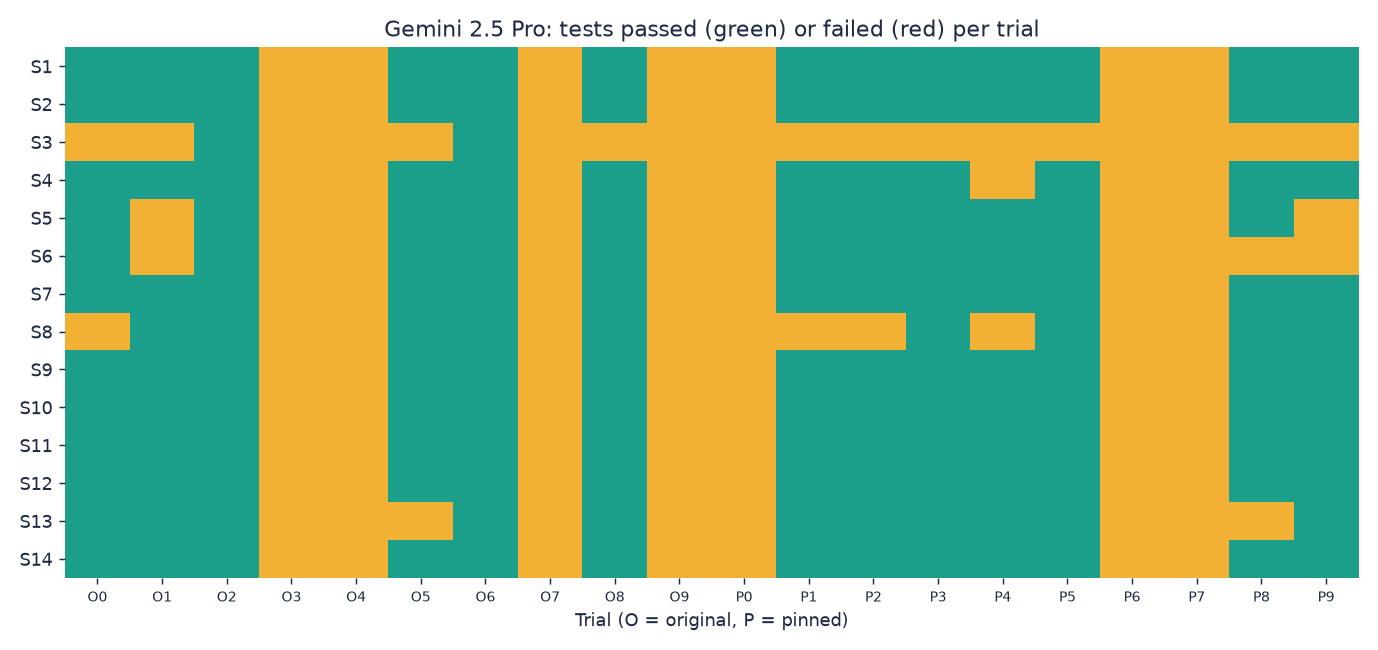
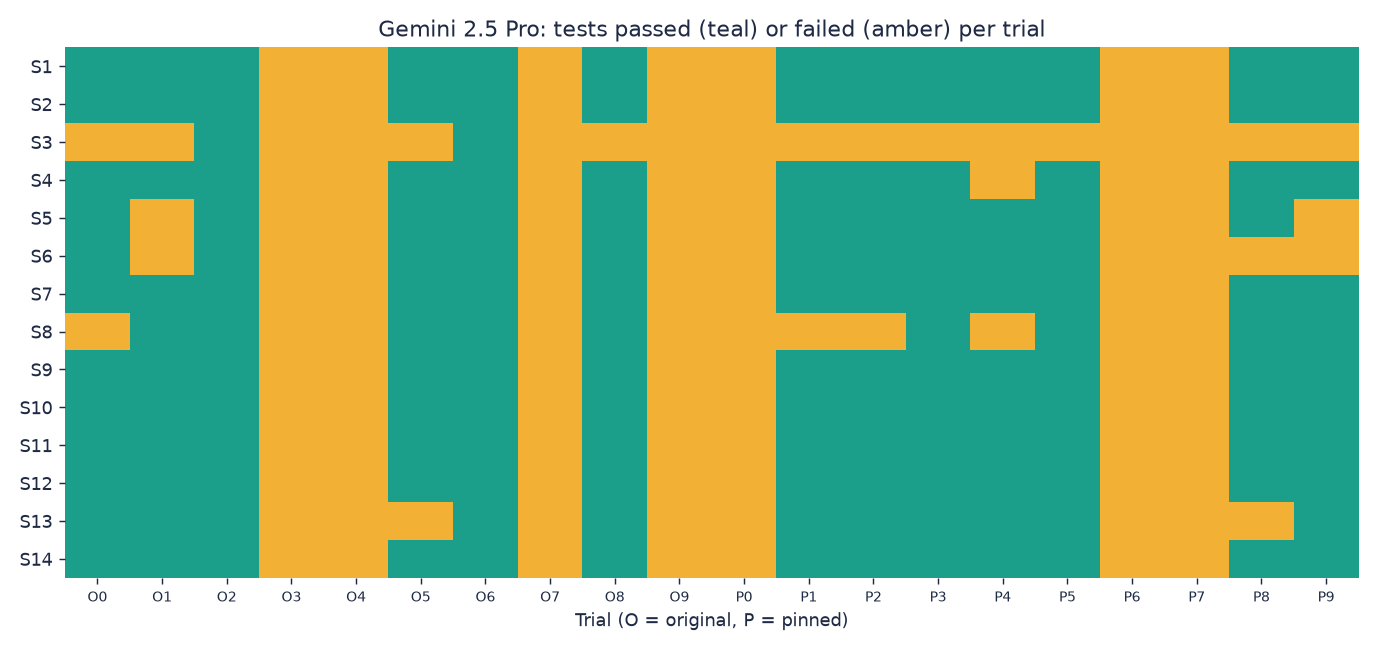
Correct colour names in the test matrix title and explain how to read it

Changed region(s): [[0.2808, 0.0308, 0.7801, 0.0615]]

diff --git a/make_figures.py b/make_figures.py
@@ -113,7 +113,7 @@ if len(ALL):
     ax.imshow(M, cmap=matplotlib.colors.ListedColormap([AMBER, TEAL]), aspect="auto", vmin=0, vmax=1)
     ax.set_yticks(range(14)); ax.set_yticklabels(ids); ax.set_xticks(range(len(Rs)))
     ax.set_xticklabels([f"{r.cond[0].upper()}{r.trial}" for r in Rs.itertuples()], fontsize=8)
-    ax.set_xlabel("Trial (O = original, P = pinned)"); ax.set_title("Gemini 2.5 Pro: tests passed (green) or failed (red) per trial")
+    ax.set_xlabel("Trial (O = original, P = pinned)"); ax.set_title("Gemini 2.5 Pro: tests passed (teal) or failed (amber) per trial")
     ax.spines[:].set_visible(False); fig.tight_layout(); fig.savefig("docs/test_matrix.png"); plt.close(fig)
 
     # 6c/6d: comparison across models, original prompt only

diff --git a/README.md b/README.md
@@ -227,7 +227,7 @@ Per-trial figures for `gemini-2.5-pro` under both prompts:
 
 The difference between the prompts is small compared with the variation between trials. It comes mainly from how many trials produced working code. In both prompts, every valid trial passed the ICC test, so the prompt wording did not change which outcome was used.
 
-The test-by-test pass pattern for these 20 trials:
+The figure below shows the result of each test (rows S1 to S14) in each of the 20 trials (columns; O0 to O9 use the original prompt and P0 to P9 use the pinned prompt). Teal means the test passed and amber means it failed. A column that is entirely amber is a trial that produced no valid results. The amber row S3 is the proportional-hazards p-value dictionary, which most trials did not return in the requested form.
 
 ![gemini-2.5-pro tests passed per trial](docs/test_matrix.png)
 
